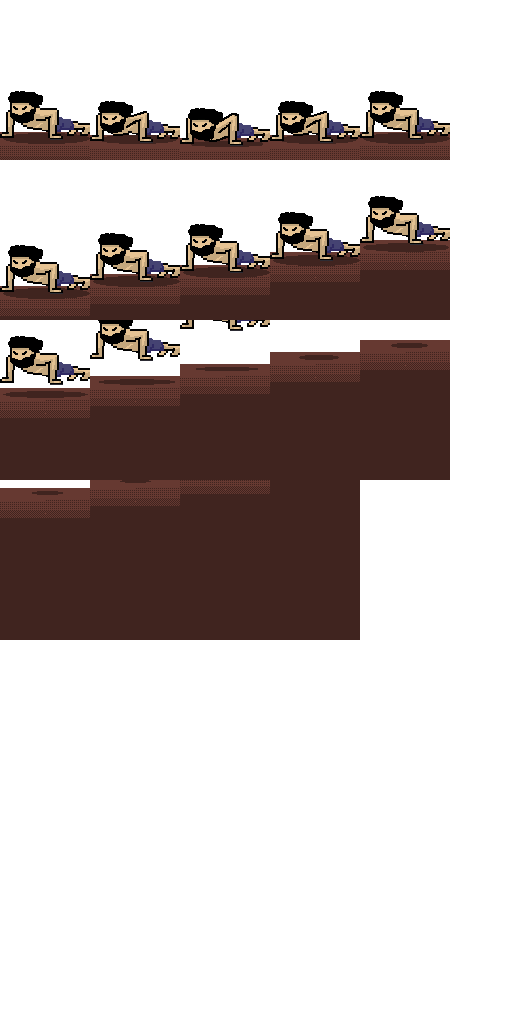
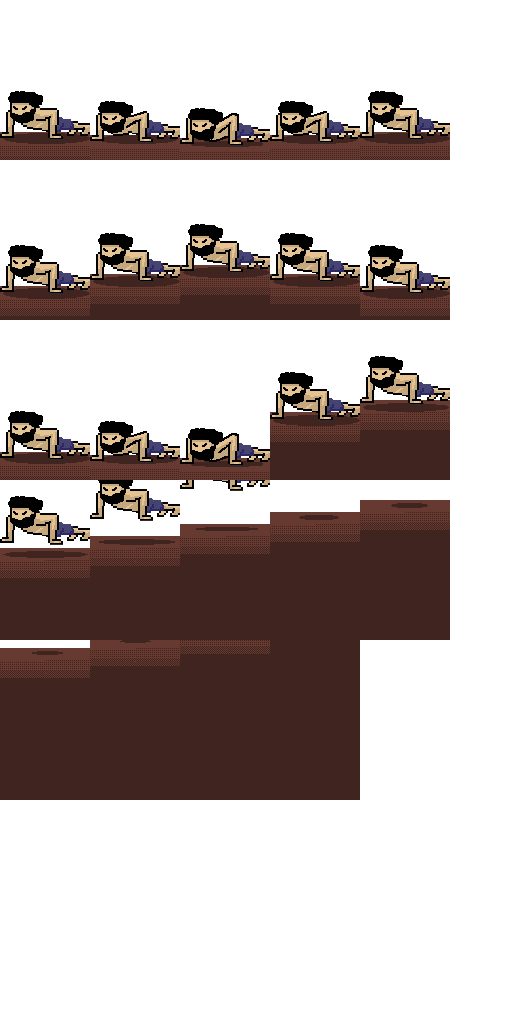
texto?

Changed region(s): [[0.0, 0.1875, 0.9062, 0.7812]]

diff --git a/main.js b/main.js
@@ -46,6 +46,9 @@ var animation;
 var background_text;
 var state = 0;
 
+var currentStatement;
+var statements = ['aperta?\ntoca?\nidk...', '01', '02'];
+
 function init ()
 {
     //  Inject our CSS
@@ -103,18 +106,22 @@ function advance()
 // scene.add.text(n++, 32, 'Push', { fontFamily: 'Comic Sans MS', fontSize: 16, color: '#ff0000' });
 	if(foreground.anims.isPlaying == false)
 	{
-		if(state == 0)
-		{
-			foreground.anims.play('Push-Up Full', false);
-			// foreground.anims.chain('Push-Up');
-	 		foreground.anims.setRepeat(0);
-		}
-		else
-		{
-	 		foreground.anims.play('Push-Up', false);
-	 		foreground.anims.setRepeat(0);
-		}
+		// if(state == 0)
+		// {
+		// 	foreground.anims.play('Push-Up Full', false);
+		// 	// foreground.anims.chain('Push-Up');
+	 // 		foreground.anims.setRepeat(0);
+		// }
+		// else
+		// {
+ 		foreground.anims.play('Push-Up', false);
+ 		foreground.anims.setRepeat(0);
+		// }
+
 		++state;
+
+		currentStatement.setText(statements[state]);
+
 	}
 }
 
@@ -124,11 +131,13 @@ function create ()
 	graphics = this.add.graphics({ lineStyle: { width: 4, color: 0x5555ff, depth:5.0} });
 
 	foreground = spriteFromAsepriteAtlas(this.textures.get('foreground'));
-	foreground.anims.play('Push-Up Start', true);
+	foreground.anims.play('Push-Up', true);
 	foreground.anims.stopOnFrame(0);
 	foreground.anims.setRepeat(0);
 	foreground.setPosition(windowWidth/2,windowHeight/2);
 	foreground.setScale(assetRatio);
+
+	currentStatement = scene.add.text(16, 16, statements[0], { font: 16*assetRatio +'px Comic Sans MS', fill: '#00ff00' }).setScrollFactor(0);
 
 	this.cameras.main.setBackgroundColor(0x5fcde4);
 
@@ -156,5 +165,6 @@ function create ()
 
 function update (time, delta)
 {
-	graphics.clear();
+	// graphics.clear();
+	currentStatement.setAlpha(foreground.anims.getProgress());
 }
